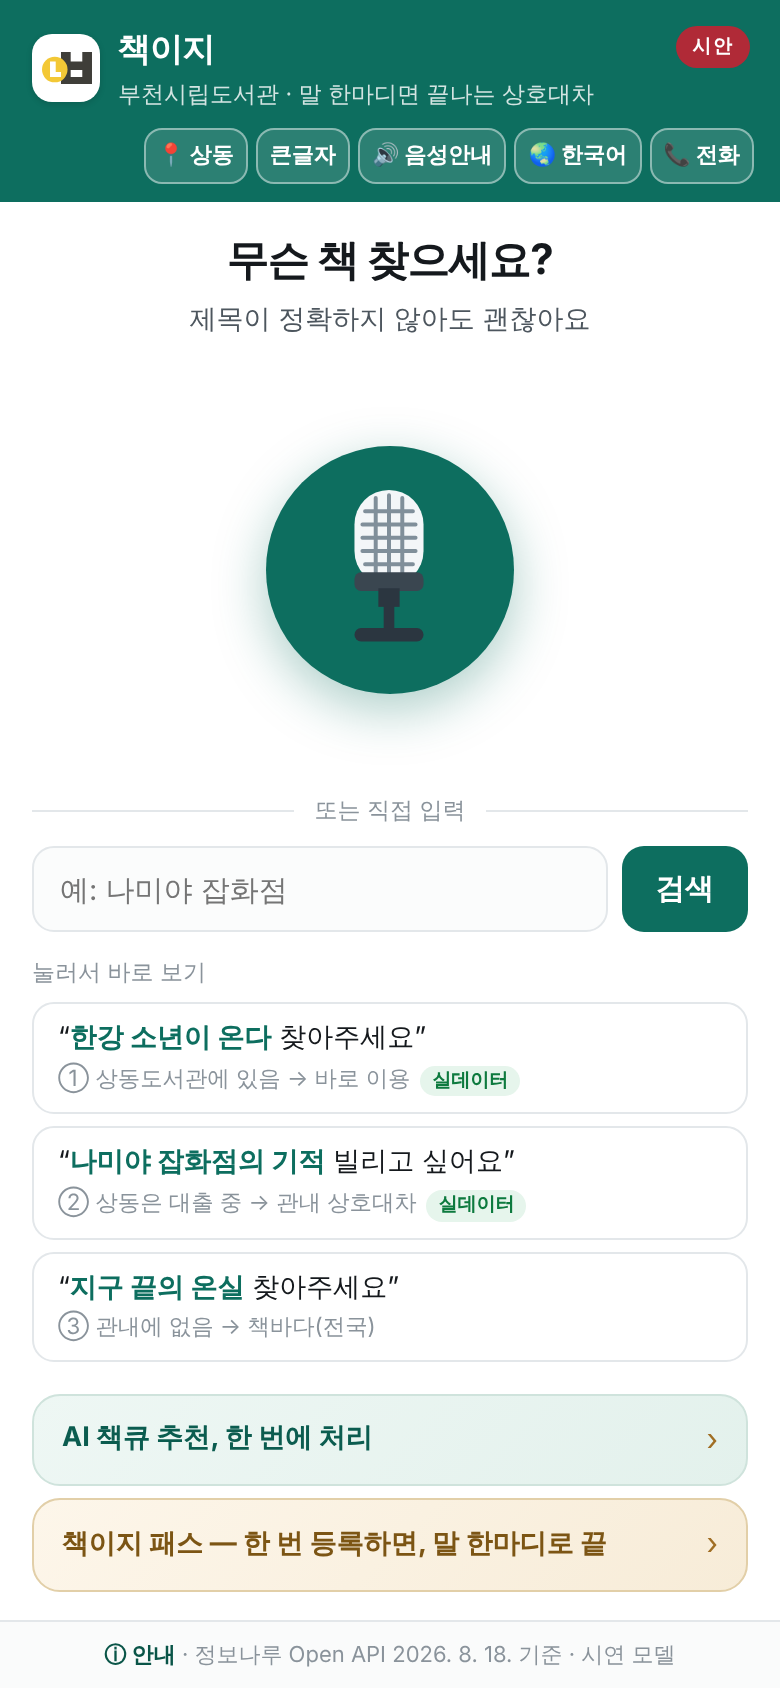
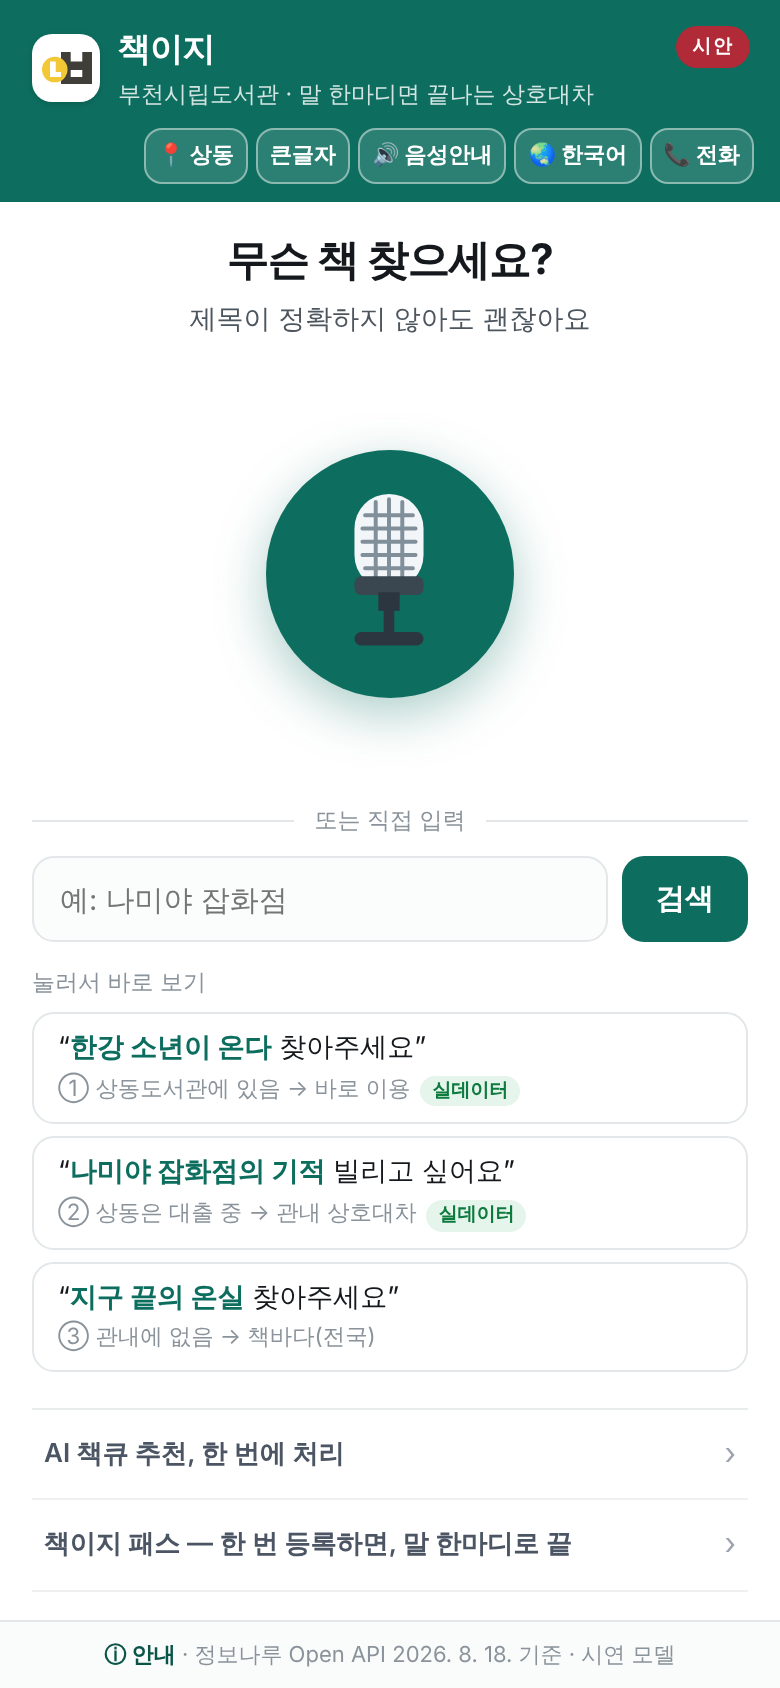
시연 웹 v1.12 — 화면 정리 · 공식 누리집 링크 · 캐시 v26
기능·흐름·문구는 그대로 두고, 시민에게 필요 없는 것만 걷어냈다.
- 첫 화면: AI 책큐·책이지 패스 색 카드 2장을 글자 줄 2개로(기능은 그대로)
- 결과 화면: 도서관 카드의 「도서관코드」 줄 숨김
- 확인 시트: 「처리 경로(MCP)」 행과 「책나래 우편(확장 설계)」 보조문 삭제(9행 → 8행)
- 결과 화면: 「공식 누리집에서 이 책 보기 · 신청 ›」 링크(10개 언어, 서버 official_search_url과 같은 주소 틀, 책바다 갈래 제외)
- README 화면 사진 3장(첫 화면·결과·신청 확인)을 v1.12로 다시 찍음, 변경내역 v1.12 추가
- 확인: 모의 시험 10건 통과(세 갈래·책큐·패스·큰글자·베트남어·확인 시트 8행·접수 시연 완료·오류 0)

Claude-Session: https://claude.ai/code/session_01TtT9xcbTP3NzSioNJT8Spd

diff --git a/index.html b/index.html
@@ -214,8 +214,10 @@ body.bigmode .bqitems{font-size:15.5px}
   border-radius:11px;padding:8px 12px;font-size:13.5px;font-family:inherit;color:var(--ink);
   margin-bottom:6px;cursor:pointer;line-height:1.45;
 }
-.quick{margin-top:4px}
-.quick .bqcard.slim{margin-top:6px}
+.quick{margin-top:12px;border-top:1px solid #e8ecea}
+.quick .bqcard.slim{margin-top:0;background:transparent !important;border:0 !important;border-bottom:1px solid #eef1f0 !important;border-radius:0;box-shadow:none;padding:11px 6px}
+.quick .bqcard.slim b{color:#4b5563 !important;font-weight:600;font-size:13px}
+.quick .bqcard.slim .go{color:#9ca3af}
 .chip:active{background:var(--brand-l);border-color:var(--brand)}
 .chip b{color:var(--brand);font-weight:700}
 .chip .m{display:block;font-size:11.2px;color:var(--ink3);margin-top:1px}
@@ -601,6 +603,8 @@ body.bigmode .foot button{font-size:12.5px}
 .demo-tag{top:calc(13px + env(safe-area-inset-top, 0px))}
 .foot button{padding-bottom:calc(9px + env(safe-area-inset-bottom, 0px))}
 .sheet-in{padding-bottom:calc(26px + env(safe-area-inset-bottom, 0px))}
+.lib .r2:empty{display:none}
+.olink{display:block;text-align:center;margin:8px 0 2px;font-size:14px;color:#0f5c4c;text-decoration:underline;text-underline-offset:3px}
 .pc-top{padding-top:calc(14px + env(safe-area-inset-top, 0px))}
 .scanov{padding-top:env(safe-area-inset-top, 0px)}
 </style>
@@ -681,8 +685,8 @@ body.bigmode .foot button{font-size:12.5px}
           <b id="bqE1">AI 책큐 추천, 한 번에 처리</b>
           <span id="bqE2">추천 도서를 자주 가는 도서관으로 모아드립니다 · 시연</span><span class="go" aria-hidden="true">›</span>
         </button>
-        <button class="bqcard slim" id="passcard" onclick="passOpen()" style="background:linear-gradient(135deg,#fdf6ea,#f7ecd8);border-color:#e2cfa8">
-          <b id="psE1" style="color:#7c5514">책이지 패스 — 한 번 등록하면, 말 한마디로 끝</b>
+        <button class="bqcard slim" id="passcard" onclick="passOpen()">
+          <b id="psE1">책이지 패스 — 한 번 등록하면, 말 한마디로 끝</b>
           <span id="psE2"></span><span class="go" aria-hidden="true">›</span>
         </button>
       </div>
@@ -930,6 +934,15 @@ body.bigmode .foot button{font-size:12.5px}
 const 기준일 = "2026. 8. 18.";
 /* v1.10: 정보나루 중계(relay/) — 주소를 넣으면 실데이터, 비우면 매일 갱신 파일 → 픽스처 순. 중계가 3초 안에 답하지 않으면 다음 출처로 자동 복귀 */
 const RELAY = "";
+/* v1.12: 화면 정리 — 첫 화면의 책큐·패스 카드를 글자 줄로, 도서관코드 숨김, 확인 시트에서 기술 용어 행 제거,
+   결과 화면에 「공식 누리집에서 이 책 보기·신청」 링크(접수는 이용자가 누리집에 로그인해 직접 — 이 화면의 접수는 시연). */
+const OFFICIAL_SEARCH = 'https://alpasq.bcl.go.kr/search/keyword/{title}';   /* v1.12 공식 자료검색 주소 틀 — 비우면 링크 생략 */
+const OLINK = {ko:'공식 누리집에서 이 책 보기 · 신청 ›', en:'Open this book on the official library site ›', zh:'在图书馆官网查看本书 · 申请 ›',
+  ja:'図書館公式サイトでこの本を見る · 申込 ›', vi:'Xem sách này trên trang web chính thức của thư viện ›', th:'ดูหนังสือเล่มนี้ที่เว็บไซต์ห้องสมุด ›',
+  ru:'Открыть эту книгу на сайте библиотеки ›', mn:'Номын сангийн албан ёсны сайтаас энэ номыг үзэх ›', uz:'Bu kitobni kutubxona rasmiy saytida ko‘rish ›',
+  id:'Lihat buku ini di situs resmi perpustakaan ›'};
+function officialLink(title){ if(!OFFICIAL_SEARCH || !title) return ''; const k = Object.keys(LANGS).find(x=>LANGS[x]===L) || 'ko';
+  return `<a class="olink" href="${OFFICIAL_SEARCH.replace('{title}', encodeURIComponent(title))}" target="_blank" rel="noopener">${OLINK[k] || OLINK.ko}</a>`; }
 /* v1.11: 중계가 없거나 답이 없으면, 같은 출처의 「매일 갱신」 파일(data/holdings-today.json · 깃허브 액션이 새벽에 씀)을 본다. 2일 넘게 묵으면 무시 */
 function asofText(a){ const m = /^(\d{4})-(\d{2})-(\d{2})$/.exec(a || ''); return m ? `${m[1]}. ${+m[2]}. ${+m[3]}.` : a; }
 function todayHoldings(c){
@@ -2276,19 +2289,19 @@ function result(){
   h += `<div class="lib best">
       <span class="pick">${tag}</span>
       <div class="r1"><div class="nm">${btName}</div><span class="badge b-ok">${u.bOk}</span></div>
-      <div class="r2">${bt.code ? `${u.code} <code>${bt.code}</code>` : ''}${bt.loc ? (bt.code?' · ':'')+bt.loc : ''}${bt.note ? '<br>'+bt.note : ''}</div>
+      <div class="r2">${bt.loc ? bt.loc : ''}${bt.note ? (bt.loc?'<br>':'')+bt.note : ''}</div>
     </div>
 
     <button class="cta" id="apply">${(t !== 0 && passReady(t)) ? P_().btn : T[3]}</button>
 
-    <div class="src">${c.real ? u.srcR(c.asof || 기준일) : u.srcD}</div>`;
+    <div class="src">${c.real ? u.srcR(c.asof || 기준일) : u.srcD}</div>${t !== 2 ? officialLink(c.book.t) : ''}`;
 
   if(t === 0) h += `<div class="rule">${u.rule(내관)}</div>`;
 
   if(alt.length){
     h += `<div class="sec-t">${u.also}</div>`;
     alt.forEach(l => {
-      let d = l.code ? `${u.code} <code>${l.code}</code>` : '';
+      let d = '';
       if(l.loc)  d += (d?' · ':'') + l.loc;
       if(l.note) d += (d?'<br>':'') + l.note;
       h += `<div class="lib"><div class="r1"><div class="nm">${dispName(u,l)}</div>
@@ -2370,10 +2383,7 @@ function openSheet(){
     <div class="kv"><div class="k">${u.kBook}</div><div class="v">${c.book.t}</div></div>${midRows}
     <div class="kv"><div class="k">${u.kTo}</div><div class="v">${u.NM(내관)}</div></div>
     <div class="kv"><div class="k">${u.kTime}</div><div class="v">${T[4]} · ${T[5]}</div></div>${holdRow}
-    <div class="kv"><div class="k">${u.kRecv}</div><div class="v">${u.recvV(내관)}
-      <span class="vs">${u.recvS}</span></div></div>
-    <div class="kv"><div class="k">${u.kPath}</div><div class="v">${u.pathV}
-      <span class="vs">${u.pathS}</span></div></div>
+    <div class="kv"><div class="k">${u.kRecv}</div><div class="v">${u.recvV(내관)}</div></div>
     <div class="kv"><div class="k">${u.kUser}</div><div class="v">${u.user}</div></div>`;
   $('sheet').classList.add('on');
   ynPrep();

diff --git a/sw.js b/sw.js
@@ -1,5 +1,5 @@
 /* 책이지 서비스워커 — 화면은 항상 최신, 인터넷이 끊겨도 열림 */
-const CACHE = 'chaekiji-v25';
+const CACHE = 'chaekiji-v26';
 const SHELL = ['./index.html', './manifest.webmanifest', './icon-192.png', './icon-512.png'];
 
 self.addEventListener('install', e => {

diff --git a/README.md b/README.md
@@ -23,7 +23,7 @@
 <p align="center">
   <img src="docs/img/home.png" width="31%" alt="첫 화면 — 무슨 책 찾으세요?">
   <img src="docs/img/result.png" width="31%" alt="판정 결과 — 상동은 대출 중, 가까운 8개 분관에서 가능">
-  <img src="docs/img/confirm.png" width="31%" alt="신청 확인 — 수령 기한·미수령 제한·처리 경로까지 고지">
+  <img src="docs/img/confirm.png" width="31%" alt="신청 확인 — 도서·대출관·수령관·소요·수령 기한·미수령 제한">
 </p>
 <p align="center"><sub>왼쪽부터: 첫 화면 → 「나미야 잡화점의 기적 빌리고 싶어요」의 판정 결과 → 신청 확인 시트 (2026. 10. 13. 화면)</sub></p>
 
@@ -44,7 +44,7 @@
 | 구성 | 판 | 상태 | 라이선스 |
 |---|---|---|---|
 | 참조 서버 (`server/`) — 상담 비서 | **v0.3.4** (2026. 10. 15.) | 표준 도구 10종 + 상담 묶음 1 · 규정 7종 · **시험 82건 통과** · Python 3.9+ · 모델 비종속(MCP, 호스트 2종) · 중계로 키 없이 오늘 데이터 | MIT |
-| 시연 웹 (루트) — 시민 음성 화면 | **v1.11** (2026. 10. 15.) · 캐시 v25 | 10개 언어 음성 · 큰글자 · 전화 모드 · 설치형 웹 · 자동 시험 66+17건 통과(9/19) · 중계 또는 매일 갱신 파일로 어제 기준 데이터 | 제작자 권리 유보(아래 안내) |
+| 시연 웹 (루트) — 시민 음성 화면 | **v1.12** (2026. 10. 16.) · 캐시 v26 | 10개 언어 음성 · 큰글자 · 전화 모드 · 설치형 웹 · 자동 시험 66+17건 통과(9/19) · 중계 또는 매일 갱신 파일로 어제 기준 데이터 | 제작자 권리 유보(아래 안내) |
 | 중계 (`relay/`) | 2026. 10. 15. | 정보나루 인증키를 서버 쪽에만 두는 얇은 층 — Cloudflare Workers 판·파이썬 판, 점검 14건 | — |
 | 데이터 | 정보나루 Open API 2026. 8. 18. 실측 64건 | 부천 16개관 × 도서 4종 전수 | — |
 | 만든 곳 | 부천시립도서관 상동도서관 | 행정안전부 「AI 정부 실험실」 등록 과제(2026. 8. 31.) | — |
@@ -142,6 +142,7 @@
 | 10. 12. | 참조 서버 **v0.3.2** — 원커맨드 실행·CHANGELOG·모델 2종 구동 절차·정보나루 중계 설계 |
 | 10. 13. | 참조 서버 **v0.3.3** README 개정 · **저장소 통합** — `chaekiji-mcp`를 `server/`로, 한 저장소·한 README·한 이력 |
 | 10. 14. | 1분 시연 영상·GIF 미리보기 · README 전면 손질 · 시연 웹 **v1.10** + **정보나루 중계 `relay/`**(실데이터 연결, 자동 복귀) |
+| 10. 16. | 시연 웹 **v1.12** 화면 정리 — 첫 화면 카드 2장을 글자 줄로, 도서관코드·기술 용어 행 숨김, 결과 화면에 「공식 누리집에서 이 책 보기 · 신청」 링크(10개 언어) · 캐시 v26 |
 | 10. 16. | 상담 비서 안내문 끝에 **공식 누리집 링크**(설정 `official_search_url`) — 그 책의 자료검색 화면까지, 신청은 이용자가 직접. 시험 82건 |
 | **10. 15.** | 참조 서버 **v0.3.4 「상담 비서」** — 사서가 지금 쓰는 판정 도구(`consult_request`·프롬프트 `consult`) · relay/auto 모드 · 공개 모델 호스트 · **매일 갱신**(깃허브 액션) · 시연 웹 v1.11(매일 갱신 파일 읽기) · 시험 80건 |
 

diff --git a/CHANGELOG.md b/CHANGELOG.md
@@ -5,6 +5,7 @@
 
 | 날짜 | 구성 | 판 | 내용 |
 |---|---|---|---|
+| 2026. 10. 16. | 웹 | v1.12 | **화면 정리** — 첫 화면의 AI 책큐·책이지 패스 카드를 글자 줄로, 결과 카드의 도서관코드와 확인 시트의 「처리 경로(MCP)」 행 숨김, 결과 화면에 **「공식 누리집에서 이 책 보기 · 신청」** 링크(10개 언어, 서버와 같은 주소 틀, 책바다 갈래 제외). 기능·흐름은 그대로 · 캐시 v26 |
 | 2026. 10. 16. | 서버 | v0.3.4 | 상담 안내문 끝 **공식 누리집 링크** — 설정 `official_search_url`(`{title}`/`{isbn13}` 틀, 부천 자료검색 주소 확인)로 그 책의 검색 화면까지. 접수는 이용자가 로그인해 직접. 적합성 46 → 48건(전체 82건) |
 | 2026. 10. 15. | 웹 | v1.11 | 중계가 없거나 답이 없으면 같은 출처의 **매일 갱신 파일**(`data/holdings-today.json`, 2일 이내)을 읽어 어제 기준 소장·대출 상태로 판정. 조회일 표기 통일 · 캐시 v25 |
 | 2026. 10. 15. | 서버·중계 | **v0.3.4** | **상담 비서** — 창구·전화에서 사서가 지금 쓰는 판정 도구: `consult_request` 묶음(찾기→소장·대출→규정→안내문→접수 메모, 접수 없음) · MCP 프롬프트 `consult`(사서 모드 지시문) · `relay`/`snapshot`/`auto` 모드(중계 → 매일 갱신 스냅샷 → 픽스처) · **매일 갱신** `lab/refresh_today.py` + 깃허브 액션 `refresh.yml`(키는 Secrets에만) · 공개 모델 호스트 `hosts/ollama_host.py` · 중계 `/search`·`/nation` · 시험 47→80건 |
